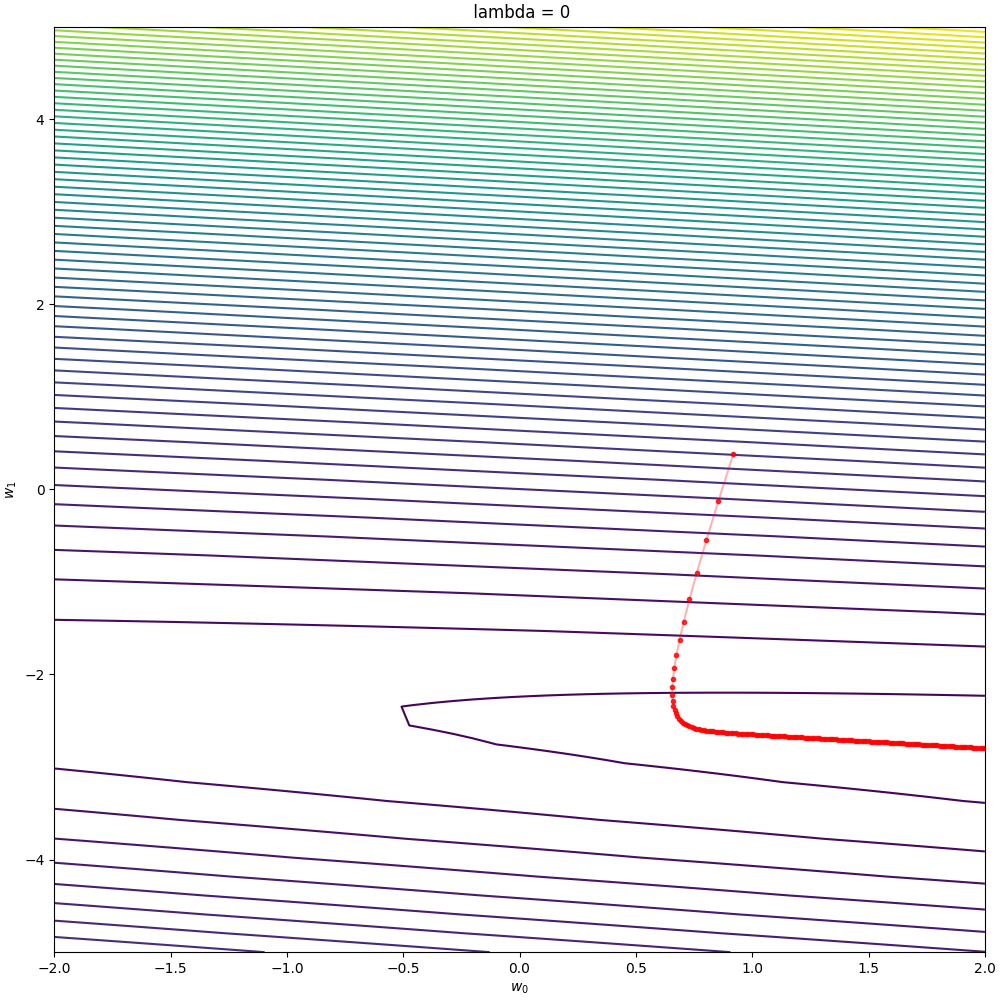
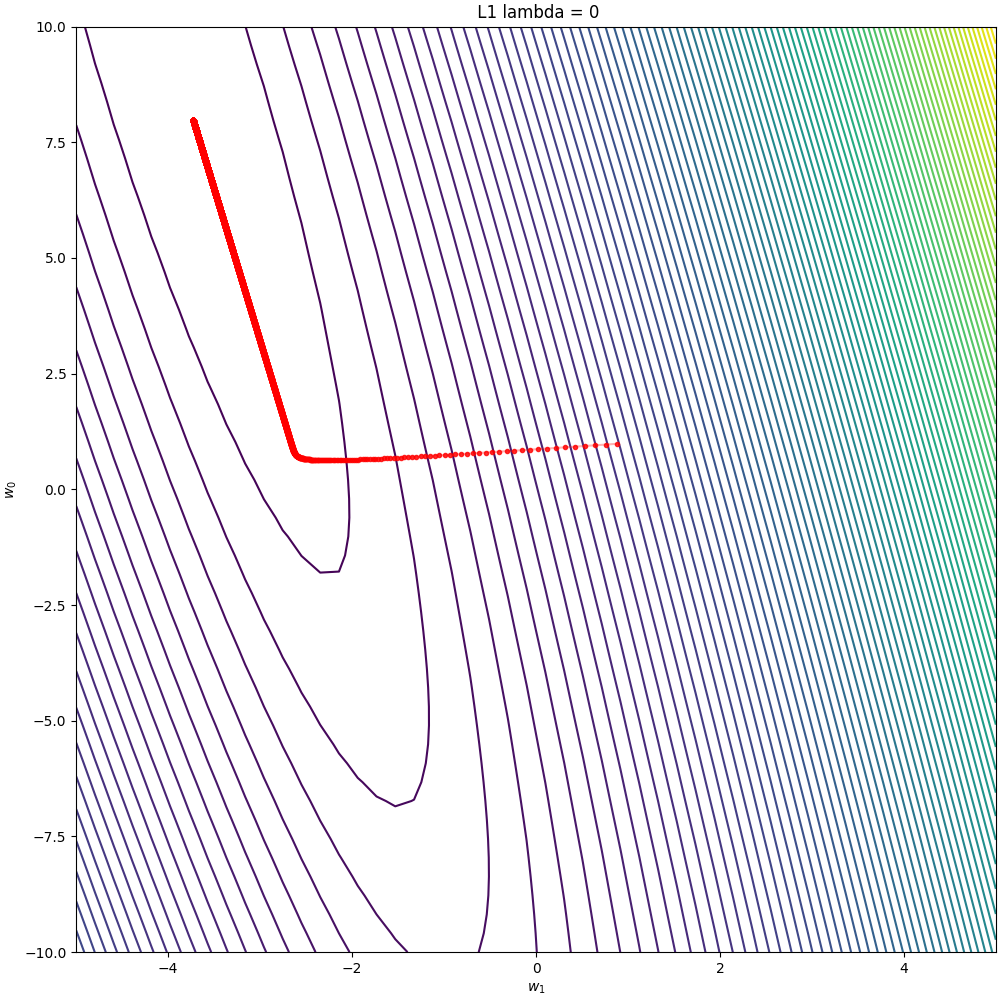
final updates on plots and code

diff --git a/PlotHelper.py b/PlotHelper.py
@@ -8,15 +8,14 @@ import itertools
 from Assignment2.Helper import *
 
 
-
 def plot_real_data_and_noisy_data(
-    x: np.array,
-    y_noisy: np.array,
-    y_real: np.array,
-    output_folder: str = "../Results",
-    filename: str = "Data_and_Noisy_Data_Distribution",
-    graph_title: str = "Synthetic Data Generation: True vs. Noisy Data",
-    func: Optional[Callable] = None,
+        x: np.array,
+        y_noisy: np.array,
+        y_real: np.array,
+        output_folder: str = "../Results",
+        filename: str = "Data_and_Noisy_Data_Distribution",
+        graph_title: str = "Synthetic Data Generation: True vs. Noisy Data",
+        func: Optional[Callable] = None,
 ):
     """
     Plots and saves a graph comparing the real data with the noisy data.
@@ -39,7 +38,6 @@ def plot_real_data_and_noisy_data(
     plt.scatter(x, y_real, color="blue", label="True Data", alpha=0.6, marker="o")
 
     if func is not None:
-
         x_smooth = np.linspace(min(x), max(x), 100)
         y_smooth = func(x_smooth)
         plt.plot(
@@ -64,9 +62,8 @@ def plot_real_data_and_noisy_data(
 
 
 def plot_gaussian_bases(
-    x, phi, D, output_folder="../Results", filename="Gaussian_Bases_Distribution"
+        x, phi, D, output_folder="../Results", filename="Gaussian_Bases_Distribution"
 ):
-
     for d in range(D):
         plt.plot(x, phi[:, d], "-")
 
@@ -78,18 +75,18 @@ def plot_gaussian_bases(
 
 
 def plot_model_fit(
-    lr,
-    x_values,
-    y_values_noise,
-    mu,
-    num_bases,
-    gaussian_func,
-    func,
-    precision=1000,
-    data_range=(0, 20),
-    output_folder="../Results",
-    rescale_view=True,
-    basis_func_name="Gaussian",
+        lr,
+        x_values,
+        y_values_noise,
+        mu,
+        num_bases,
+        gaussian_func,
+        func,
+        precision=1000,
+        data_range=(0, 20),
+        output_folder="../Results",
+        rescale_view=True,
+        basis_func_name="Gaussian",
 ):
     """
     Plots the model's fit, noisy data, and Gaussian basis functions.
@@ -167,12 +164,12 @@ def plot_model_fit(
 
 
 def plot_sse(
-    num_bases_range,
-    sse_list,
-    output_folder="../Results",
-    filename="SSE",
-    title="Sum of Squared Errors vs. Number of Bases",
-    log_scale=False,
+        num_bases_range,
+        sse_list,
+        output_folder="../Results",
+        filename="SSE",
+        title="Sum of Squared Errors vs. Number of Bases",
+        log_scale=False,
 ):
     """
     Plot the sum of squared errors
@@ -201,12 +198,12 @@ def plot_sse(
 
 
 def plot_average_sse(
-    num_bases_range,
-    sse_list,
-    output_folder="../Results",
-    filename="Average SSE",
-    title="Average Sum of Squared Errors vs. Number of Bases",
-    log_scale=False,
+        num_bases_range,
+        sse_list,
+        output_folder="../Results",
+        filename="Average SSE",
+        title="Average Sum of Squared Errors vs. Number of Bases",
+        log_scale=False,
 ):
     """
     Plot the average sum of squared errors
@@ -235,13 +232,13 @@ def plot_average_sse(
 
 
 def plot_average_fitted_models(
-    x,
-    all_fitted_models,
-    func,
-    num_bases,
-    output_folder="../Results",
-    rescale_view=False,
-    basis_name="Gaussian",
+        x,
+        all_fitted_models,
+        func,
+        num_bases,
+        output_folder="../Results",
+        rescale_view=False,
+        basis_name="Gaussian",
 ):
     """
     Plot the average of fitted models along with the individual models and the true function.
@@ -294,82 +291,87 @@ def plot_contour(f, x1bound, x2bound, resolution, ax):
     x2range = np.linspace(x2bound[0], x2bound[1], resolution)
     xg, yg = np.meshgrid(x1range, x2range)
     zg = np.zeros_like(xg)
-    for i,j in itertools.product(range(resolution), range(resolution)):
-        zg[i,j] = f([xg[i,j], yg[i,j]])
+    for i, j in itertools.product(range(resolution), range(resolution)):
+        zg[i, j] = f([xg[i, j], yg[i, j]])
     ax.contour(xg, yg, zg, 100)
     return ax
 
-def plot_cost_func_contour(x,y):
-    cost = lambda w: .5 * np.mean((w[0] + w[1] * x - y) ** 2)
+
+def plot_cost_func_contour(x, y):
+    cost = lambda w: .5 * np.mean((w[1] + w[0] * x - y) ** 2)
     l2_penalty = lambda w: np.dot(w, w) / 2
     l1_penalty = lambda w: np.sum(np.abs(w))
-    strength = [5]
+    strength = [10]
     fig, axes = plt.subplots(ncols=3, nrows=1, constrained_layout=True, figsize=(15, 5))
     plot_contour(cost, [-20, 20], [-20, 20], 50, axes[0])
     axes[0].set_title(r'cost function $J(w)$')
     plot_contour(l2_penalty, [-20, 20], [-20, 20], 50, axes[1])
     axes[1].set_title(r'L2 reg. $||w||_2^2$')
     for i in range(len(strength)):
-        cost_plus_l2 = lambda w: cost(w) + strength[i] * l2_penalty(w)
+        cost_plus_l2 = lambda w: cost(w) + strength[i] * l2_penalty(w[0])
         plot_contour(cost_plus_l2, [-20, 20], [-20, 20], 50, axes[i + 2])
         axes[i + 2].set_title(r'L2 reg. cost $J(w) + ' + str(strength[i]) + ' ||w||_2^2$')
     plot_path = os.path.join(
         "../Results",
-        f"Cost_L2_strength_5",
+        f"Cost_L2_strength_10",
     )
     plt.savefig(plot_path)
     plt.close()
-    strength = [10,15,20]
+    strength = [20, 50, 150]
     fig, axes = plt.subplots(ncols=3, nrows=1, constrained_layout=True, figsize=(15, 5))
     for i in range(len(strength)):
-        cost_plus_l2 = lambda w: cost(w) + strength[i] * l2_penalty(w)
+        cost_plus_l2 = lambda w: cost(w) + strength[i] * l2_penalty(w[0])
         plot_contour(cost_plus_l2, [-20, 20], [-20, 20], 50, axes[i])
         axes[i].set_title(r'L2 reg. cost $J(w) + ' + str(strength[i]) + ' ||w||_2^2$')
     plot_path = os.path.join(
         "../Results",
-        f"Cost_L2_strength_10_15_20",
+        f"Cost_L2_strength_50_100_750",
     )
     plt.savefig(plot_path)
     plt.close()
-    strength = [5]
+    strength = [10]
     fig, axes = plt.subplots(ncols=3, nrows=1, constrained_layout=True, figsize=(15, 5))
     plot_contour(cost, [-20, 20], [-20, 20], 50, axes[0])
     axes[0].set_title(r'cost function $J(w)$')
     plot_contour(l1_penalty, [-20, 20], [-20, 20], 50, axes[1])
-    axes[1].set_title(r'L1 reg. $||w||_2^2$')
+    axes[1].set_title(r'L1 reg. $||w||$')
     for i in range(len(strength)):
-        cost_plus_l1 = lambda w: cost(w) + strength[i] * l1_penalty(w)
+        cost_plus_l1 = lambda w: cost(w) + strength[i] * l1_penalty(w[0])
         plot_contour(cost_plus_l1, [-20, 20], [-20, 20], 50, axes[i + 2])
-        axes[i + 2].set_title(r'L1 reg. cost $J(w) + ' + str(strength[i]) + ' ||w||_2^2$')
+        axes[i + 2].set_title(r'L1 reg. cost $J(w) + ' + str(strength[i]) + ' ||w||$')
     plot_path = os.path.join(
         "../Results",
-        f"Cost_L1_strength_5",
+        f"Cost_L1_strength_10",
     )
     plt.savefig(plot_path)
     plt.close()
-    strength = [10, 15, 20]
+    strength = [20, 50, 150]
     fig, axes = plt.subplots(ncols=3, nrows=1, constrained_layout=True, figsize=(15, 5))
     for i in range(len(strength)):
-        cost_plus_l1 = lambda w: cost(w) + strength[i] * l1_penalty(w)
+        cost_plus_l1 = lambda w: cost(w) + strength[i] * l1_penalty(w[0])
         plot_contour(cost_plus_l1, [-20, 20], [-20, 20], 50, axes[i])
-        axes[i].set_title(r'L1 reg. cost $J(w) + ' + str(strength[i]) + ' ||w||_2^2$')
+        axes[i].set_title(r'L1 reg. cost $J(w) + ' + str(strength[i]) + ' ||w||$')
     plot_path = os.path.join(
         "../Results",
-        f"Cost_L1_strength_10_15_20",
+        f"Cost_L1_strength_50_100_750",
     )
     plt.savefig(plot_path)
     plt.close()
 
-def plot_gradient_descent(current_cost,optimizer,axes,reg_coef,L2 = True):
-    plot_contour(current_cost, [-2, 2], [-5, 5], 50, axes)
-    w_hist = np.vstack(optimizer.w_history)  # T x 2
-    axes.plot(w_hist[:, 1], w_hist[:, 0], '.r', alpha=.8)
-    axes.plot(w_hist[:, 1], w_hist[:, 0], '-r', alpha=.3)
-    axes.set_xlabel(r'$w_0$')
-    axes.set_ylabel(r'$w_1$')
-    axes.set_title(f' lambda = {reg_coef}')
-    axes.set_xlim([-2, 2])
-    axes.set_ylim([-5, 5])
+
+def plot_gradient_descent(current_cost, optimizer, axes, reg_coef, L2=True):
+    plot_contour(current_cost, [-5, 5], [-10, 10], 50, axes)
+    w_hist = np.vstack(optimizer.w_history)
+    axes.plot(w_hist[:, 0], w_hist[:, 1], '.r', alpha=.8)
+    axes.plot(w_hist[:, 0], w_hist[:, 1], '-r', alpha=.3)
+    axes.set_xlabel(r'$w_1$')
+    axes.set_ylabel(r'$w_0$')
+    if L2:
+        axes.set_title(f' L2 lambda = {reg_coef}')
+    else:
+        axes.set_title(f' L1 lambda = {reg_coef}')
+    axes.set_xlim([-5, 5])
+    axes.set_ylim([-10, 10])
     if L2:
         plot_path = os.path.join(
             "../Results",
@@ -386,7 +388,7 @@ def plot_gradient_descent(current_cost,optimizer,axes,reg_coef,L2 = True):
         plt.close()
 
 
-def plot_T4_syth_data(x,y):
+def plot_T4_syth_data(x, y):
     plt.scatter(x, y, label="Synthetic Data", color='blue')
     plt.title("y = -4x + 10 + 2ε")
     plt.xlabel("x")
@@ -398,4 +400,19 @@ def plot_T4_syth_data(x,y):
         f"T4_syth_data",
     )
     plt.savefig(plot_path)
+    plt.close()
+
+
+def plot_weight_vs_lambda(reg, l1, l2):
+    plt.plot(reg, l2, label=['l2_w1', 'l2_w0'])
+    plt.plot(reg, l1, label=['l1_w1', 'l1_w0'])
+    plt.title("Change in $w0$ and $w1$ of L1 and L2 Regression under increasing $lambda$")
+    plt.xlabel("$lambda$")
+    plt.grid(True)
+    plt.legend()
+    plot_path = os.path.join(
+        "../Results",
+        f"weight_vs_lambda",
+    )
+    plt.savefig(plot_path, dpi=300)
     plt.close()

diff --git a/Task4/Code/Losseffectofregularization.py b/Task4/Code/Losseffectofregularization.py
@@ -2,14 +2,17 @@
 import matplotlib.pyplot as plt
 import itertools
 import os
+
+import numpy as np
+
 from Assignment2.PlotHelper import *
 from Gradientdescent_regressions import *
 N = 50
-x = np.linspace(0, 10, N)
+x = np.random.uniform(0, 10, N)
 
 epsilon = np.random.normal(0, 1, N)
 
-y = -4 * x + 10 + 2 * epsilon
+y = 10 - 4 * x + 2 * epsilon
 
 plot_T4_syth_data(x,y)
 
@@ -17,22 +20,31 @@ l2_penalty = lambda w: np.dot(w, w) / 2
 l1_penalty = lambda w: np.sum(np.abs(w))
 plot_cost_func_contour(x, y)
 
-cost2 = lambda w, reg: .5 * np.mean((w[0] + w[1] * x - y) ** 2) + reg * l2_penalty(w)
-reg_list = [0, 1, 2, 3, 4, 5]
+cost2 = lambda w, reg: .5 * np.mean((w[1] + w[0] * x - y) ** 2) + reg * l2_penalty(w[0])
+reg_list = list(range(50))
 
+w_vs_lam_l2 = []
 for i, reg_coef in enumerate(reg_list):
     fig, axes = plt.subplots(ncols=1, nrows=1, constrained_layout=True, figsize=(10, 10))
-    optimizer = GradientDescent(learning_rate=.01, max_iters=1000, record_history=True)
+    optimizer = GradientDescent(learning_rate=.001, max_iters=10000, record_history=True)
     model = L2_Regression(optimizer, l2_reg=reg_coef)
     model.fit(x, y, optimizer)
     current_cost = lambda w: cost2(w, reg_coef)
+    w_vs_lam_l2.append(optimizer.w_history[-1])
     plot_gradient_descent(current_cost, optimizer, axes, reg_coef)
 
-cost1 = lambda w, reg: .5 * np.mean((w[0] + w[1] * x - y) ** 2) + reg * l1_penalty(w)
+w_vs_lam_l1 = []
+
+cost1 = lambda w, reg: .5 * np.mean((w[1] + w[0] * x - y) ** 2) + reg * l1_penalty(w[0])
 for i, reg_coef in enumerate(reg_list):
     fig, axes = plt.subplots(ncols=1, nrows=1, constrained_layout=True, figsize=(10, 10))
-    optimizer = GradientDescent(learning_rate=.01, max_iters=1000, record_history=True)
+    optimizer = GradientDescent(learning_rate=.001, max_iters=10000, record_history=True)
     model = L1_Regression(optimizer, l1_reg=reg_coef)
     model.fit(x, y, optimizer)
     current_cost = lambda w: cost1(w, reg_coef)
+    w_vs_lam_l1.append(optimizer.w_history[-1])
     plot_gradient_descent(current_cost, optimizer, axes, reg_coef, False)
+
+
+
+plot_weight_vs_lambda(reg_list,w_vs_lam_l1,w_vs_lam_l2)

diff --git a/Task4/Code/Gradientdescent_regressions.py b/Task4/Code/Gradientdescent_regressions.py
@@ -2,7 +2,7 @@ import numpy as np
 N = 50
 class GradientDescent:
 
-    def __init__(self, learning_rate=.001, max_iters=1e4, epsilon=1e-7, record_history=False):
+    def __init__(self, learning_rate=.001, max_iters=1e4, epsilon=1e-8, record_history=False):
         self.learning_rate = learning_rate
         self.max_iters = max_iters
         self.record_history = record_history
@@ -15,7 +15,7 @@ class GradientDescent:
         t = 1
         while np.linalg.norm(grad) > self.epsilon and t < self.max_iters:
             grad = gradient_fn(x, y, w)
-            w = w - self.learning_rate * grad
+            w = w - (self.learning_rate) * grad
             if self.record_history:
                 self.w_history.append(w)
             t += 1
@@ -39,8 +39,8 @@ class L2_Regression:
         def gradient(x, y, w):
             yh = x @ w
             N, D = x.shape
-            grad = .5 * np.dot(yh - y, x) / N
-            grad += self.l2_reg * w
+            grad = np.dot(yh - y, x) / N
+            grad[0] += self.l2_reg * w[0]
             return grad
 
         w0 = np.ones(D)
@@ -71,8 +71,8 @@ class L1_Regression:
         def gradient(x, y, w):
             yh = x @ w
             N, D = x.shape
-            grad = .5 * np.dot(yh - y, x) / N
-            grad += self.l1_reg * np.sign(w)
+            grad = np.dot(yh - y, x) / N
+            grad[0] += self.l1_reg * np.sign(w[0])
             return grad
 
         w0 = np.ones(D)
